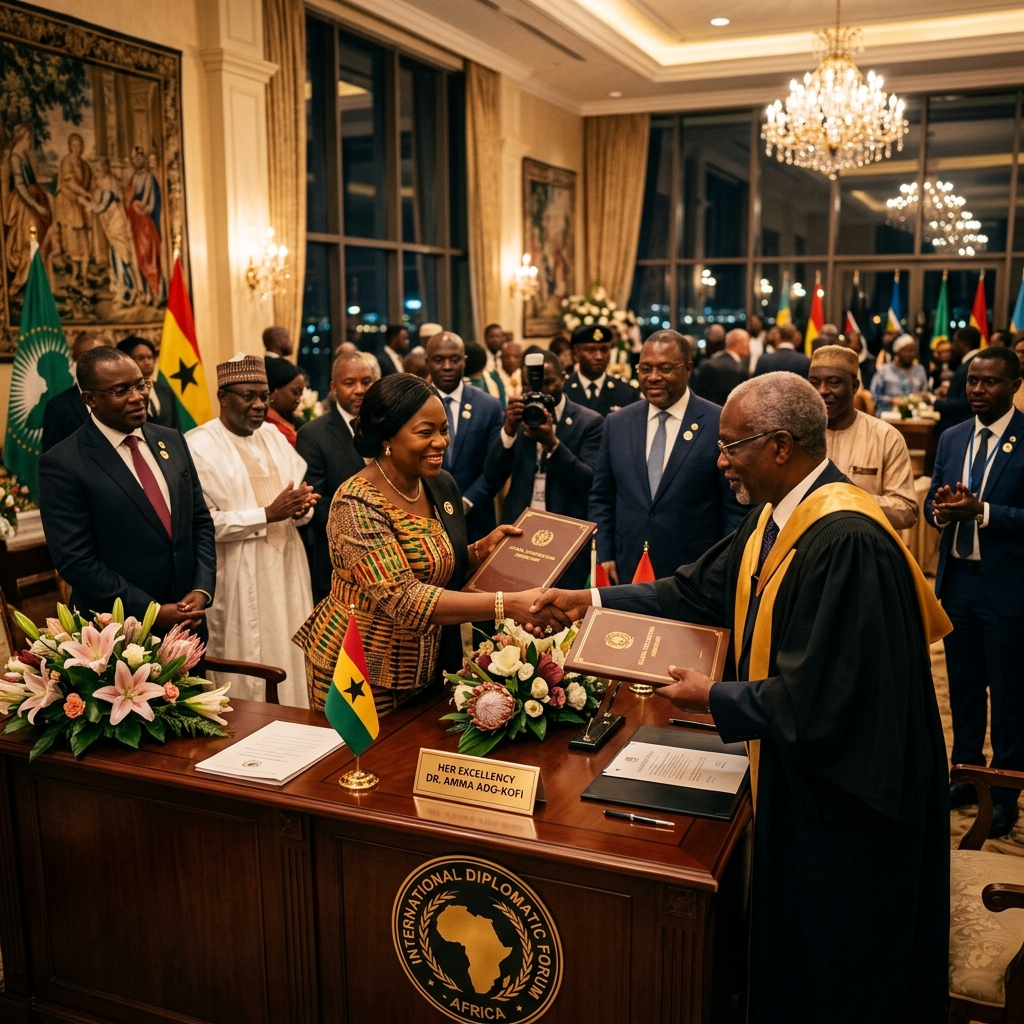
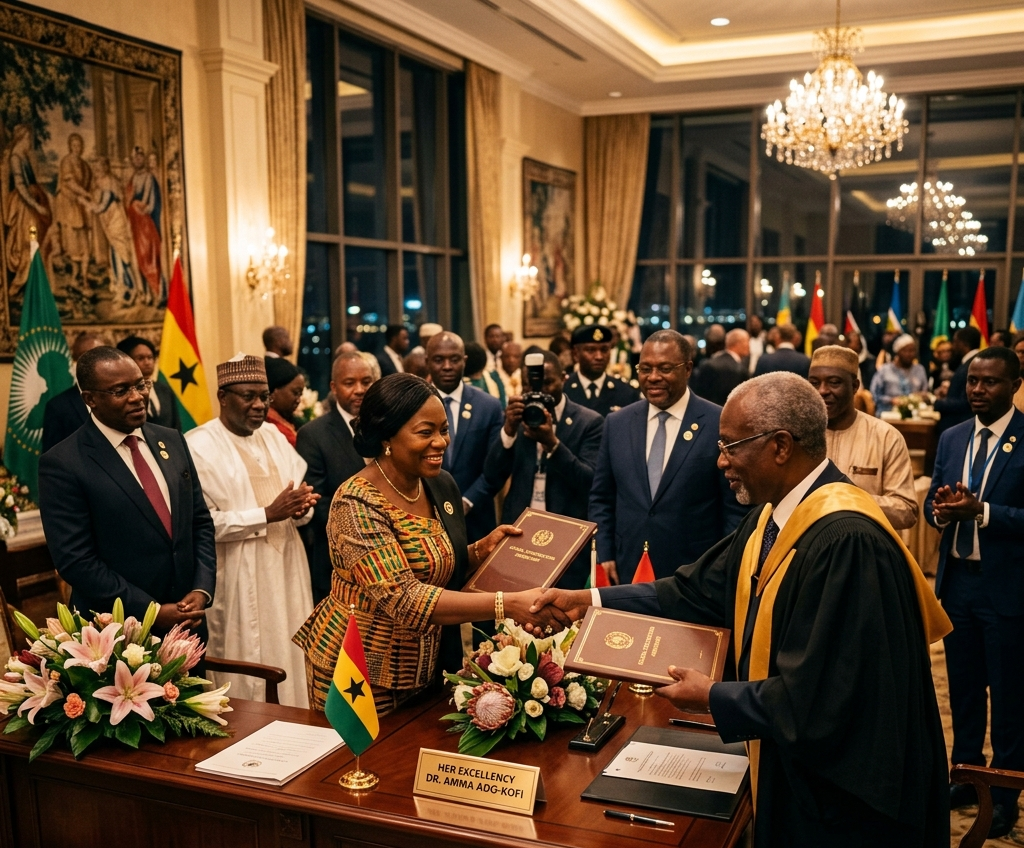
feat: add leadership team data and associated faculty member profile images

diff --git a/src/lib/leadership-data.ts b/src/lib/leadership-data.ts
@@ -120,7 +120,10 @@ export const LEADERSHIP: LeadershipMember[] = [
         title: 'Academic Advisor',
         photo: '/Iminabo Vivian Sekibo Yellowe.jpeg',
         bio: [
-            'Iminabo Vivian Yellowe Sekibo is an Academic Advisor at Ashford & Gray Fusion Academy, committed to fostering academic excellence and supporting students in achieving their professional goals.'
+            'Iminabo Vivian Yellowe Sekibo is a seasoned administrator, human resource professional, and technology-driven strategist with a strong passion for academic excellence, leadership development, and professional mentorship.',
+            'She holds a Master of Science (M.Sc.) degree in Human Resource Management and a Postgraduate Diploma in Management Sciences from Rivers State University, alongside a Bachelor of Science (B.Sc.) degree in Computing and Information Systems from Oxford Brookes University. She also obtained both the International Diploma and Advanced International Diploma in Computing from Informatics Academy Singapore. Her educational background combines management, technology, research, and organizational development, equipping her with a multidimensional approach to academic leadership.',
+            'With professional experience spanning banking operations, administration, accounting, customer relationship management, project coordination, and data systems management, Iminabo has built a reputation for excellence, integrity, and strategic problem-solving.',
+            'Beyond her corporate experience, she possesses a deep interest in research, human capital development, mentoring, and effective organizational management. Her academic research focused on employee commitment and incentive systems, reflecting her passion for institutional growth and people development.'
         ]
     }
 ];
